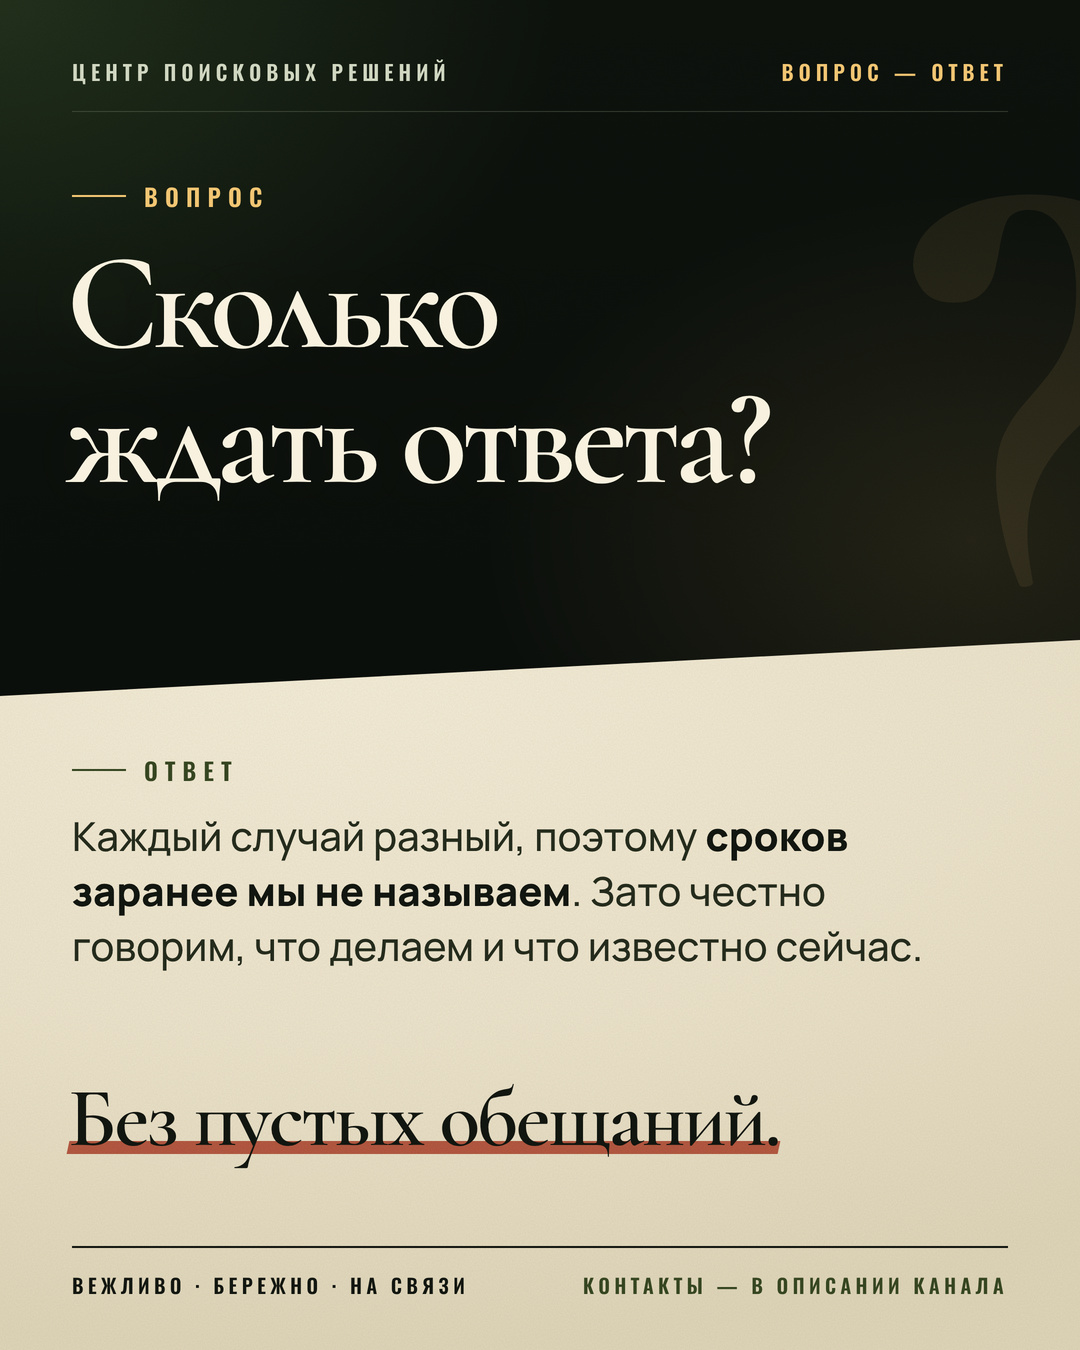
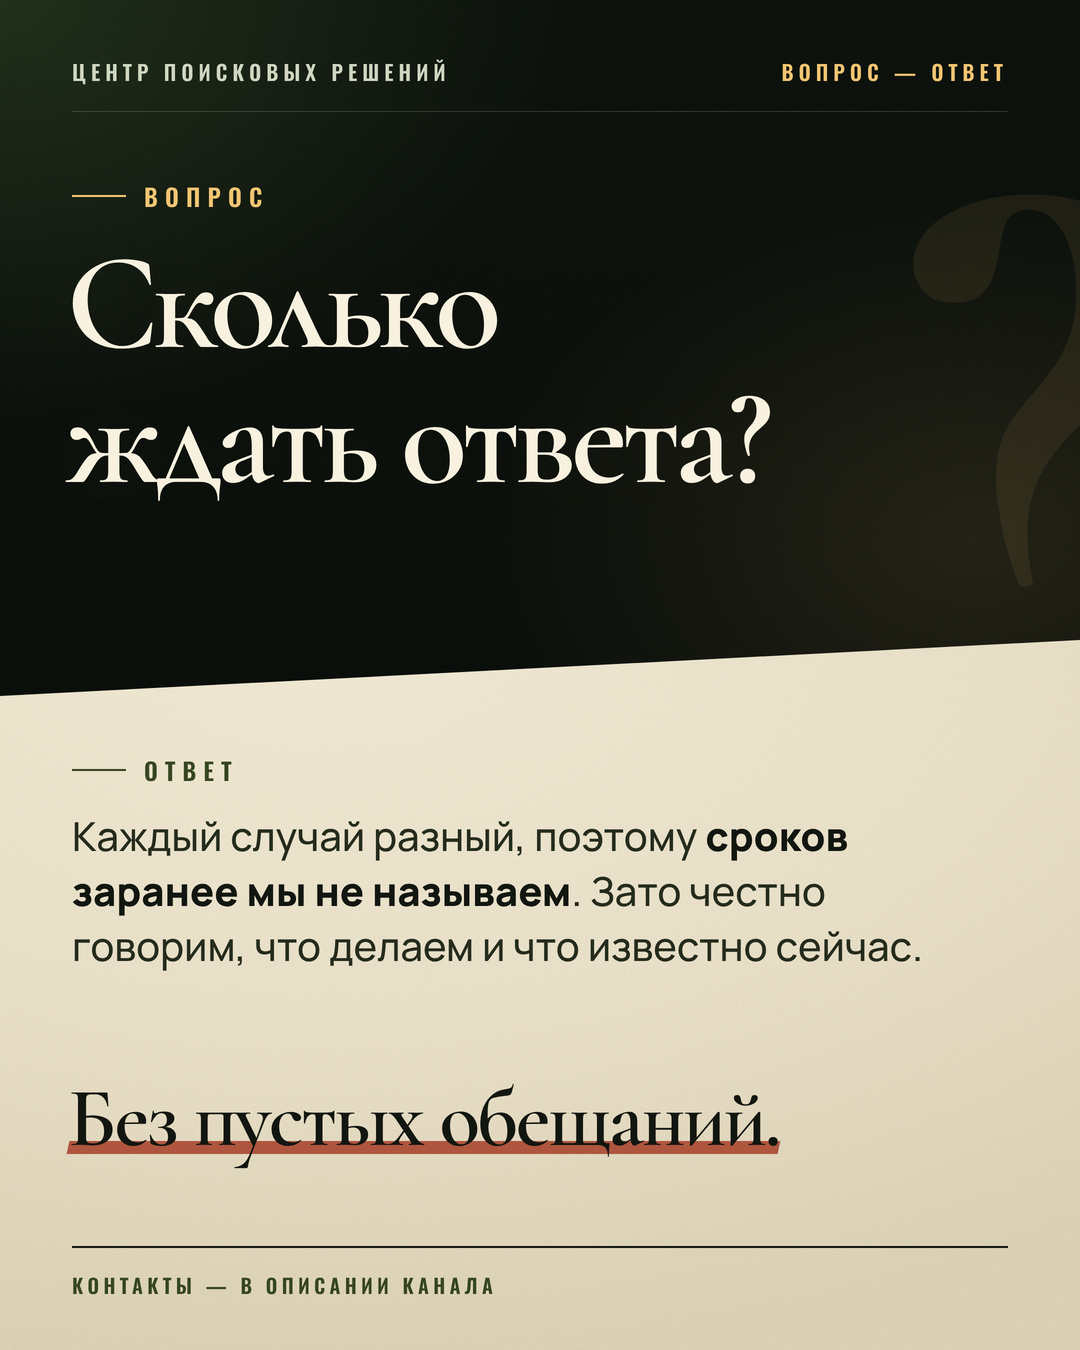
Remove the 'Вежливо · Бережно · На связи' footer line from the three posts
Claude-Session: https://claude.ai/code/session_01NuJDMPrCwZ36H1xaabvcxP

Changed region(s): [[0.0611, 0.9333, 0.4583, 0.9644], [0.7028, 0.9333, 0.9167, 0.9644], [0.55, 0.9333, 0.6417, 0.9644]]

diff --git a/psr-promo/src/post_qa.html b/psr-promo/src/post_qa.html
@@ -21,7 +21,7 @@ h1 span{display:block;white-space:nowrap}
 .pun{position:absolute;left:var(--m);top:1076px;margin-left:-4px;font:600 84px/1 'Cormorant Garamond',serif;letter-spacing:-.03em;color:var(--ink)}
 .pun u{text-decoration:none;position:relative;display:inline-block;isolation:isolate}
 .pun u:after{content:"";position:absolute;left:0;right:0;bottom:6px;height:13px;background:var(--rust);opacity:.88;transform:skewX(-12deg);z-index:-1}
-.foot{position:absolute;left:var(--m);right:var(--m);bottom:50px;padding-top:22px;border-top:2.5px solid var(--ink);display:flex;justify-content:space-between;font:600 20px Oswald;letter-spacing:.22em;color:var(--ink)}
+.foot{position:absolute;left:var(--m);right:var(--m);bottom:50px;padding-top:22px;border-top:2.5px solid var(--ink);display:flex;justify-content:flex-start;font:600 20px Oswald;letter-spacing:.22em;color:var(--ink)}
 .foot span:last-child{color:var(--olive)}
 .tex{position:absolute;inset:0;mix-blend-mode:multiply;opacity:.45;pointer-events:none;clip-path:polygon(0 696px,100% 640px,100% 100%,0 100%)}
 .grain{position:absolute;inset:0;mix-blend-mode:overlay;opacity:.2;pointer-events:none}
@@ -34,7 +34,7 @@ h1 span{display:block;white-space:nowrap}
 <div class="lab a"><i></i>ОТВЕТ</div>
 <div class="ans">Каждый случай разный, поэтому <b>сроков заранее мы не называем</b>. Зато честно говорим, что делаем и что известно сейчас.</div>
 <div class="pun"><u>Без пустых обещаний.</u></div>
-<div class="foot"><span>ВЕЖЛИВО · БЕРЕЖНО · НА СВЯЗИ</span><span>КОНТАКТЫ — В ОПИСАНИИ КАНАЛА</span></div>
+<div class="foot"><span>КОНТАКТЫ — В ОПИСАНИИ КАНАЛА</span></div>
 <svg class="tex" width="1080" height="1350"><filter id="n2"><feTurbulence type="fractalNoise" baseFrequency=".75" numOctaves="3" seed="3"/><feColorMatrix values="0 0 0 0 .55  0 0 0 0 .5  0 0 0 0 .4  0 0 0 .5 -.08"/></filter><rect width="100%" height="100%" filter="url(#n2)"/></svg>
 <svg class="grain" width="1080" height="1350"><filter id="n"><feTurbulence type="fractalNoise" baseFrequency=".85" numOctaves="3" seed="11"/><feColorMatrix values="0 0 0 0 .5  0 0 0 0 .5  0 0 0 0 .5  0 0 0 1.3 -.3"/></filter><rect width="100%" height="100%" filter="url(#n)"/></svg>
 </div></body></html>

diff --git a/psr-promo/src/post_form.html b/psr-promo/src/post_form.html
@@ -19,7 +19,7 @@ h1 span{display:block;white-space:nowrap}h1 .g{color:var(--gold);font-weight:700
 .f b{position:absolute;left:0;top:16px;font:600 28px Oswald;letter-spacing:.2em;color:#3b4430}
 .f small{position:absolute;right:0;top:20px;font:500 20px Manrope;color:rgba(20,24,16,.45)}
 .note{position:absolute;left:60px;bottom:40px;font:italic 600 44px 'Cormorant Garamond',serif;color:#2c3322}
-.foot{position:absolute;left:var(--m);right:var(--m);bottom:50px;display:flex;justify-content:space-between;font:600 20px Oswald;letter-spacing:.22em;color:#b9c2ac}
+.foot{position:absolute;left:var(--m);right:var(--m);bottom:50px;display:flex;justify-content:flex-start;font:600 20px Oswald;letter-spacing:.22em;color:#b9c2ac}
 .foot span:last-child{color:var(--gold)}
 .grain{position:absolute;inset:0;mix-blend-mode:overlay;opacity:.22;pointer-events:none}
 .vig{position:absolute;inset:0;background:radial-gradient(130% 105% at 50% 45%,transparent 60%,rgba(0,0,0,.5))}
@@ -29,5 +29,5 @@ h1 span{display:block;white-space:nowrap}h1 .g{color:var(--gold);font-weight:700
 <div class="card"><div class="tape"></div><div class="ch"><span>СВЕДЕНИЯ О БОЙЦЕ</span><span>№ ______</span></div>
 <div class="f"><b>ФИО</b></div><div class="f"><b>ПОЗЫВНОЙ</b></div><div class="f"><b>ЧАСТЬ</b><small>если известно</small></div><div class="f"><b>ГДЕ И КОГДА БЫЛ ПОСЛЕДНИЙ КОНТАКТ</b></div>
 <div class="note">Нет чего-то — пропустите.</div></div>
-<div class="foot"><span>ВЕЖЛИВО · БЕРЕЖНО · НА СВЯЗИ</span><span>КОНТАКТЫ — В ОПИСАНИИ КАНАЛА</span></div>
+<div class="foot"><span>КОНТАКТЫ — В ОПИСАНИИ КАНАЛА</span></div>
 <div class="vig"></div><svg class="grain" width="1080" height="1350"><filter id="n"><feTurbulence type="fractalNoise" baseFrequency=".85" numOctaves="3" seed="11"/><feColorMatrix values="0 0 0 0 .5  0 0 0 0 .5  0 0 0 0 .5  0 0 0 1.3 -.3"/></filter><rect width="100%" height="100%" filter="url(#n)"/></svg></div></body></html>

diff --git a/psr-promo/src/post_redact.html b/psr-promo/src/post_redact.html
@@ -19,7 +19,7 @@ h1 u{text-decoration:none;position:relative;display:inline-block;isolation:isola
 h1 u:after{content:"";position:absolute;left:0;right:0;bottom:6px;height:16px;background:var(--rust);opacity:.88;transform:skewX(-12deg);z-index:-1}
 .sub{position:absolute;left:var(--m);top:1076px;font:500 34px/1.4 Manrope;color:#2a3020;width:740px}
 .sub b{font-weight:800}
-.foot{position:absolute;left:var(--m);right:var(--m);bottom:50px;padding-top:22px;border-top:2.5px solid var(--ink);display:flex;justify-content:space-between;font:600 20px Oswald;letter-spacing:.22em}
+.foot{position:absolute;left:var(--m);right:var(--m);bottom:50px;padding-top:22px;border-top:2.5px solid var(--ink);display:flex;justify-content:flex-start;font:600 20px Oswald;letter-spacing:.22em}
 .foot span:last-child{color:var(--olive)}
 .tex{position:absolute;inset:0;mix-blend-mode:multiply;opacity:.5;pointer-events:none}
 </style></head><body><div class="post" id="post">
@@ -31,5 +31,5 @@ h1 u:after{content:"";position:absolute;left:0;right:0;bottom:6px;height:16px;ba
 <div class="row"><span>АДРЕС</span><i class="bar" style="width:440px"></i></div></div>
 <h1><span>Личное —</span><span><u>не в комментарии.</u></span></h1>
 <div class="sub">Пишите нам <b>лично</b> — так надёжнее для вас и для того, кого вы ищете.</div>
-<div class="foot"><span>ВЕЖЛИВО · БЕРЕЖНО · НА СВЯЗИ</span><span>КОНТАКТЫ — В ОПИСАНИИ КАНАЛА</span></div>
+<div class="foot"><span>КОНТАКТЫ — В ОПИСАНИИ КАНАЛА</span></div>
 <svg class="tex" width="1080" height="1350"><filter id="n"><feTurbulence type="fractalNoise" baseFrequency=".75" numOctaves="3" seed="3"/><feColorMatrix values="0 0 0 0 .55  0 0 0 0 .5  0 0 0 0 .4  0 0 0 .5 -.08"/></filter><rect width="100%" height="100%" filter="url(#n)"/></svg></div></body></html>
